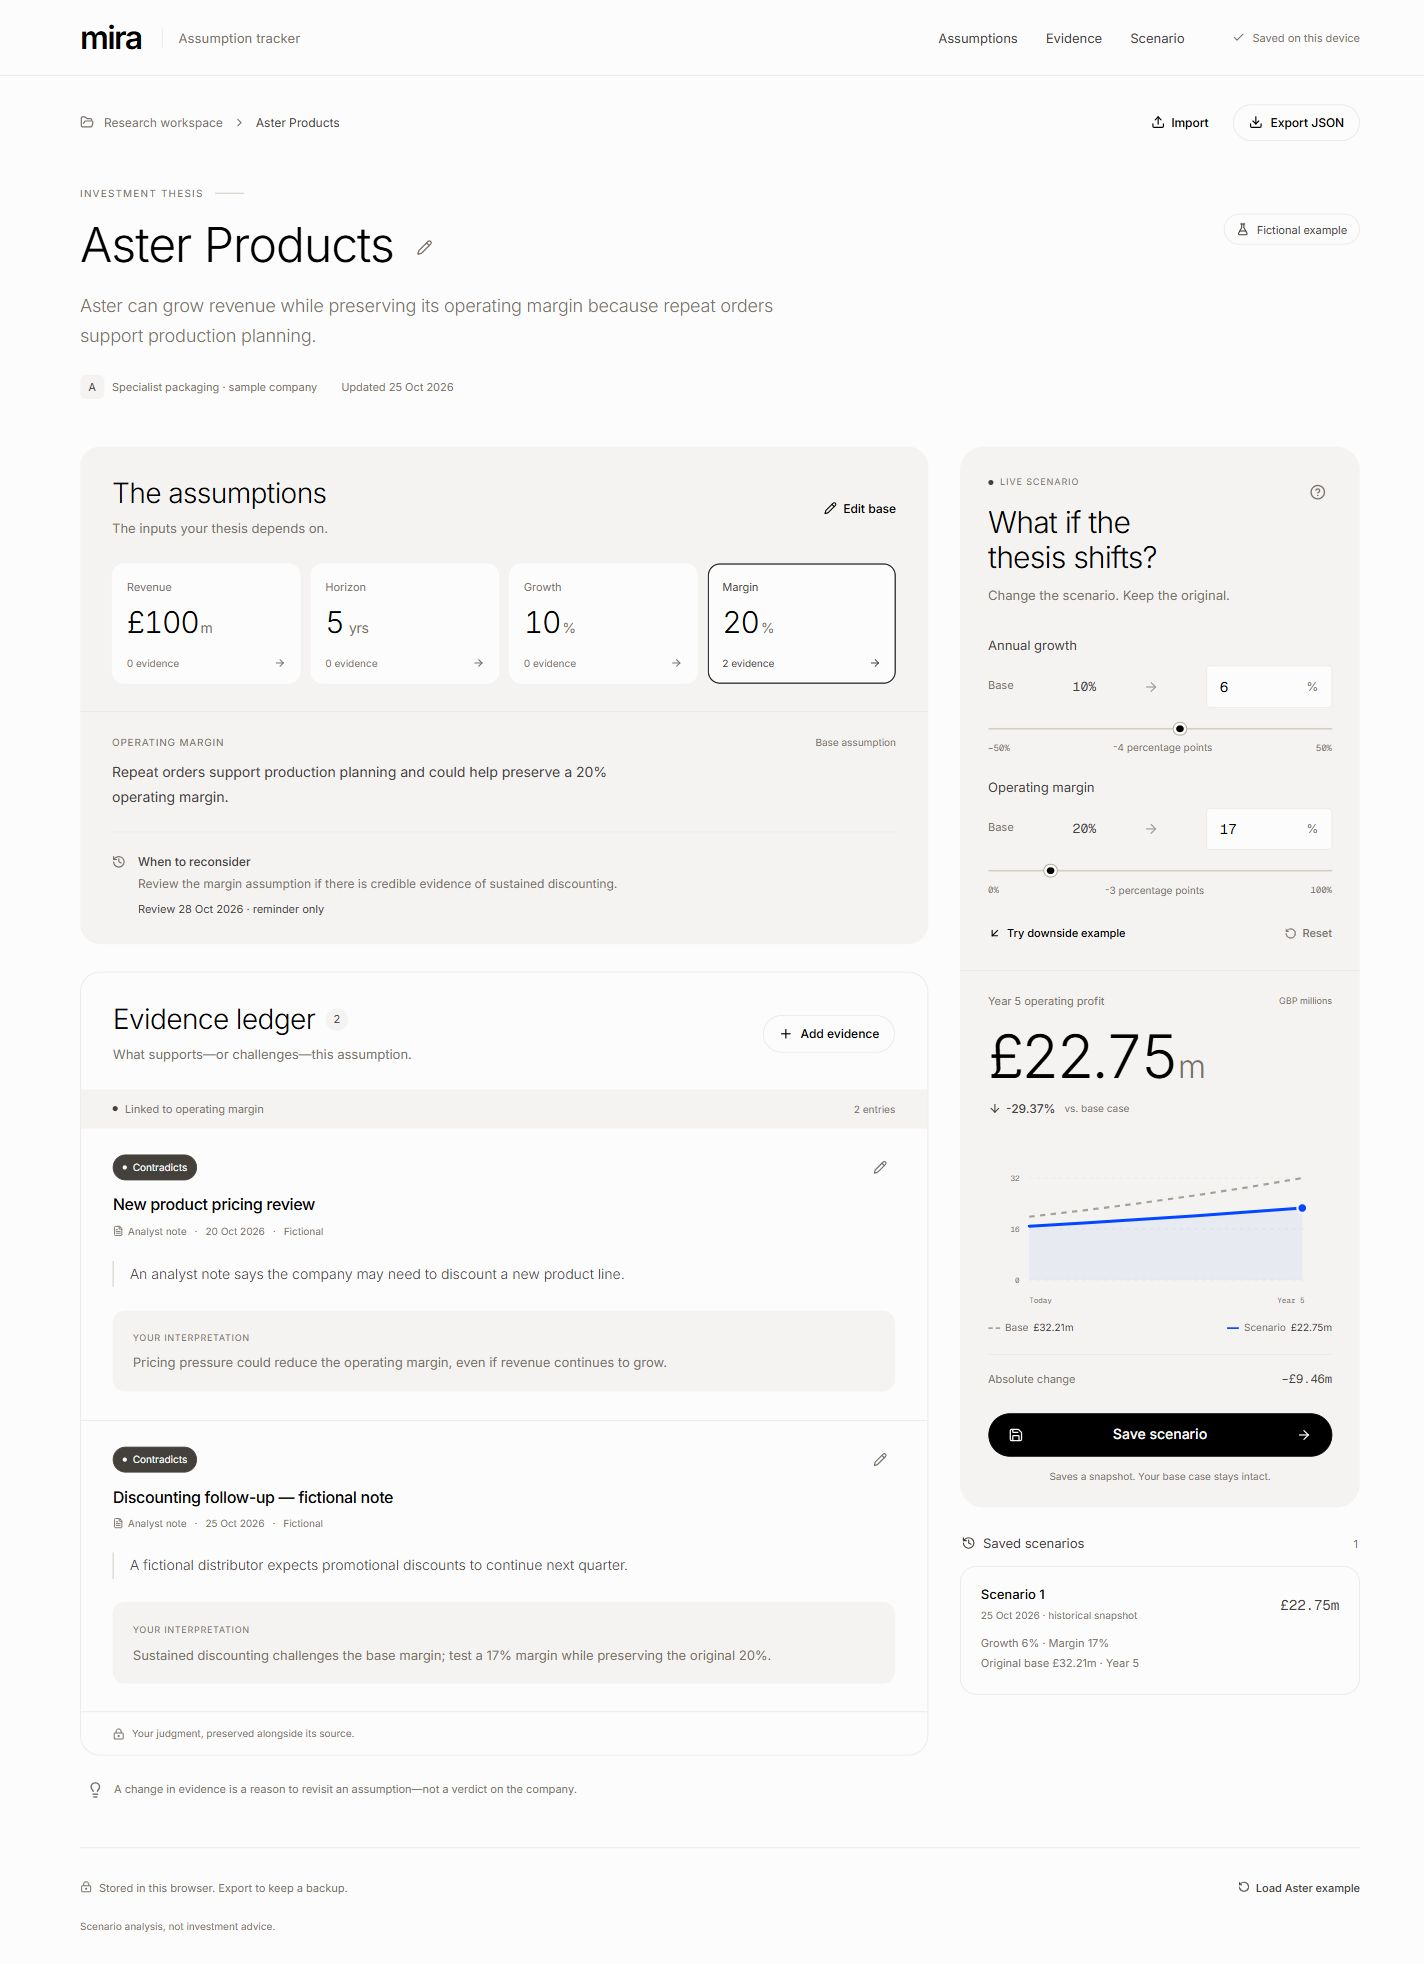
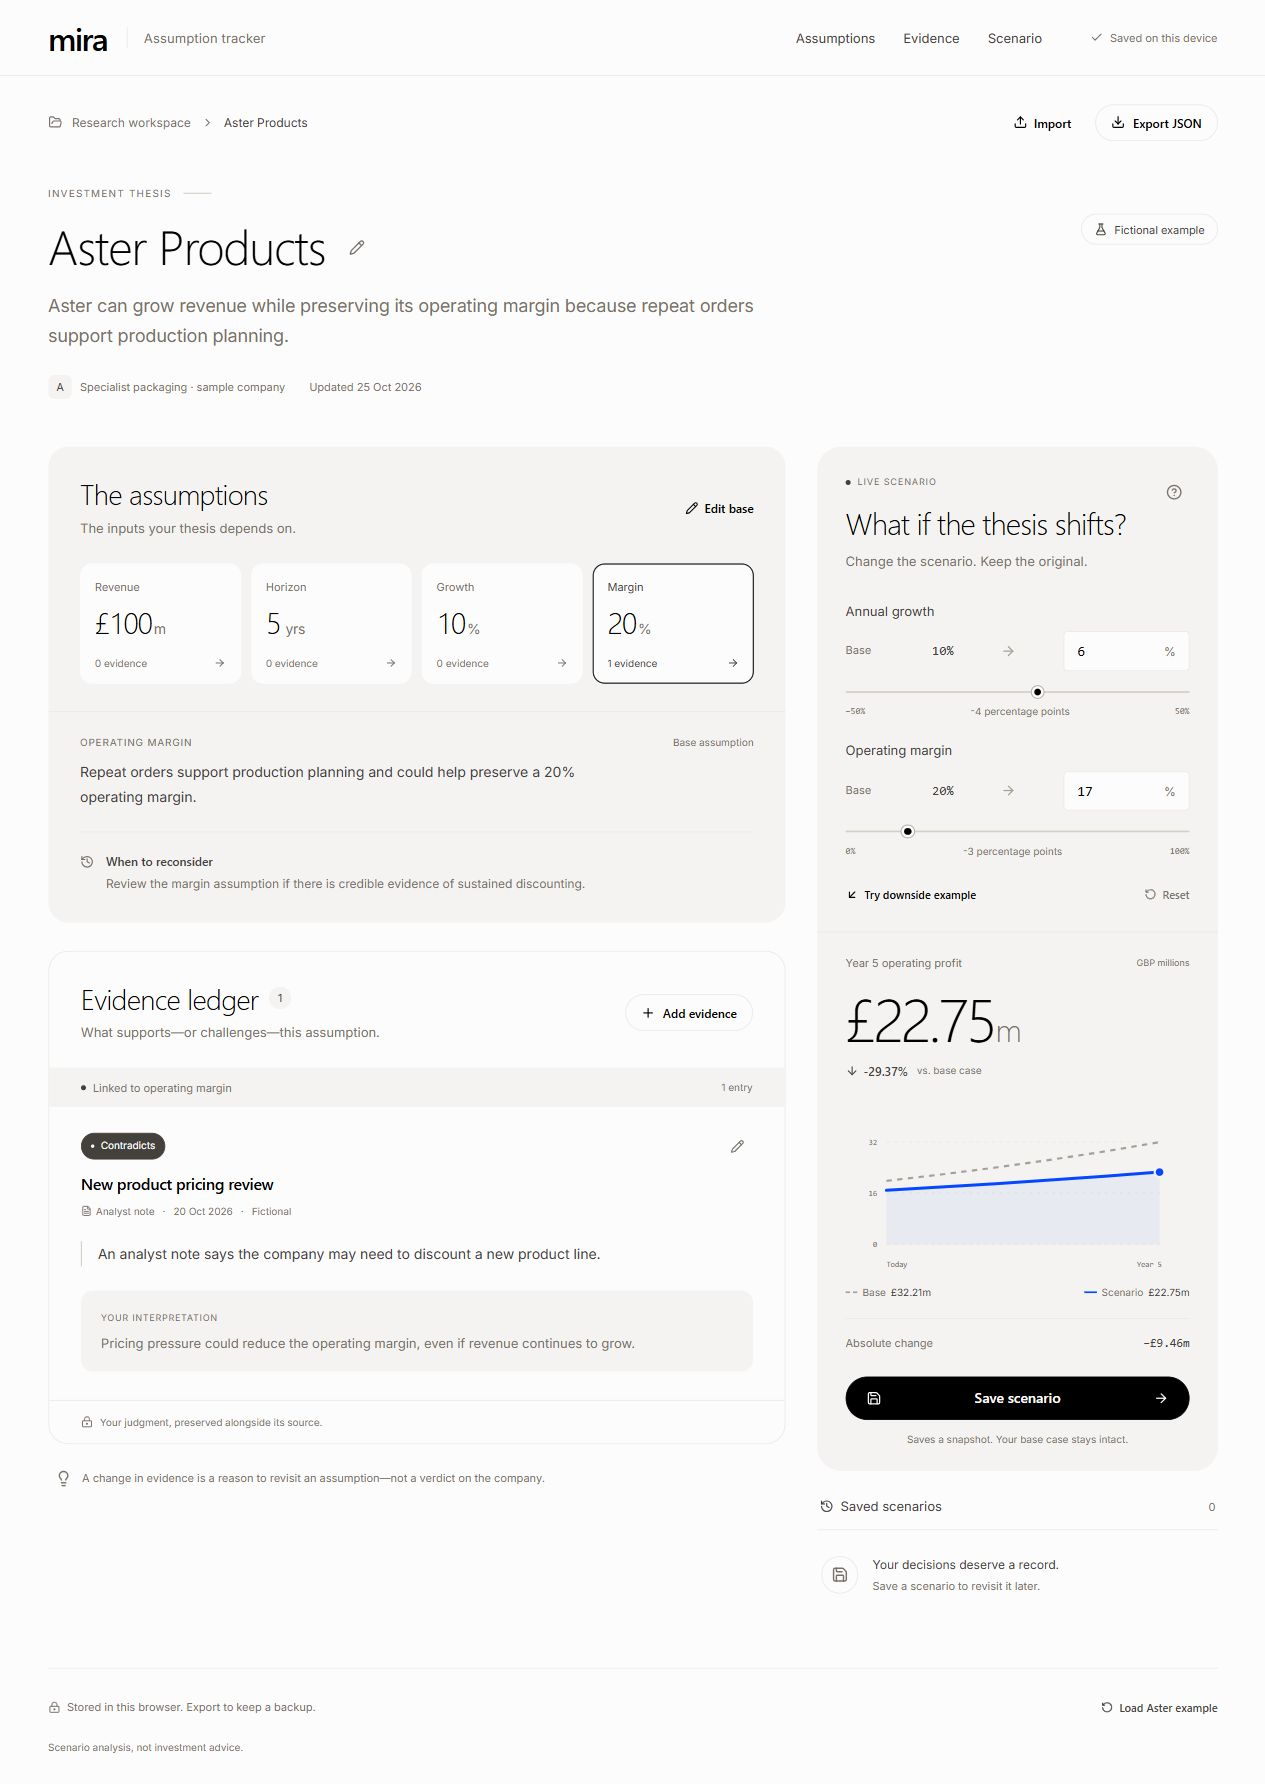
Record deployed ElevenLabs design verification

diff --git a/docs/submission-record.md b/docs/submission-record.md
@@ -4,9 +4,10 @@
 - Existing Devpost submission: https://devpost.com/submit-to/30447-build-with-ai-basics/manage/submissions/1229432/project-overview
 - Devpost state last inspected: **Untitled · DRAFT · 1/5 steps done**.
 - Deadline displayed: **27 October 2026, 02:30 IST**.
-- Application: implemented, locally and remotely verified. Final implementation commit `c8afeca`.
+- Application: implemented, locally and remotely verified. Original implementation `c8afeca`; ElevenLabs design revision `78aecdc`.
 - Public repository: https://github.com/dakshverma-dev/mira-assumption-tracker — public/MIT, default branch `codex/mira`.
-- Latest preview: https://mira-assumption-tracker-e0qzzqnm4.vercel.app — deployment `dpl_691eLjCYhjHYwbowCuUcntEKYZjv`, Ready. A scoped share link was verified and delivered in the build handoff; it expires 24 November 2026 at 00:52 IST.
+- Latest preview: https://mira-assumption-tracker-dxb6zz8z7.vercel.app — ElevenLabs design revision, deployment `dpl_Eufb71P48CaMctTB9SAVx5Af7gjY`, target preview, Ready. A 30-day scoped share link was verified and delivered in the redesign handoff.
+- Previous preview: https://mira-assumption-tracker-e0qzzqnm4.vercel.app — original cool-toned design, deployment `dpl_691eLjCYhjHYwbowCuUcntEKYZjv`.
 - Initial public deployment: https://mira-assumption-tracker.vercel.app — Vercel automatically treated the new project's first default deploy as production. It was already Ready when cancellation was attempted. Later builds explicitly target preview; the public alias is the earlier build, not the final preview.
 - Required public demo video: not recorded/uploaded yet.
 - Learner-authored submission/survey: not completed.

diff --git a/docs/acceptance.md b/docs/acceptance.md
@@ -41,3 +41,5 @@ Storage corruption/quota are verified through injected storage adapters in autom
 The user explicitly selected their supplied ElevenLabs reference. The app now uses its eggshell/taupe/stone tokens, black pill buttons, 20–24px panels, Inter Light display substitute and Geist Mono figures. The projection is the only chromatic product graphic. The code map also follows the warm monochrome direction.
 
 All 40 existing tests passed after the TSX/CSS/font changes; production build passed. Browser checks verified the formula dialog, working section navigation, retained downside result and saved records, computed eggshell canvas and 300 heading weight. Layout was checked at 320px, 390px, 768px and 1440px requested viewport widths without horizontal overflow in the corresponding observations. Updated screenshot evidence: `mira-elevenlabs-desktop.jpg`, `mira-elevenlabs-mobile.jpg` and `mira-elevenlabs-method.jpg`.
+
+Design revision `78aecdc` deployed as preview `dpl_Eufb71P48CaMctTB9SAVx5Af7gjY`, status Ready. Its share link loaded without sign-in. Deployed downside fixture remains £22.75m versus £32.21m; computed canvas rgb(253,252,252), headline weight 300 and primary-button radius 9999px. No browser error logs were reported. Desktop/mobile screenshots were refreshed from this deployed revision. The local-file browser policy prevented reloading the user's open app-map tab; its source file was updated, but no claim of a browser refresh of that file is made.

diff --git a/docs/build-log.md b/docs/build-log.md
@@ -29,3 +29,4 @@ Standard npm dependencies are pinned by the lockfile. The official skill pack su
 - Changed the Mira identity to a monochrome wordmark, restyled all panels/editors/empty states, and kept the chart accent inside the actual product visual. Added working section anchors in the header.
 - Restyled the explorable map and updated the scope, PRD and technical spec so they describe the delivered design rather than the earlier direction.
 - All 40 existing tests and production build passed. Desktop/mobile layouts, the method dialog and the numerical downside scenario were exercised in the browser. Domain, persistence and import logic were not changed by this revision.
+- Revision `78aecdc` was pushed and deployed to a new explicit Vercel preview, `dpl_Eufb71P48CaMctTB9SAVx5Af7gjY`. Verified the fresh hosted page and downside calculation, then captured its desktop/mobile screenshots. The earlier production alias remains on its earlier design; the redesign handoff points to the new preview.
